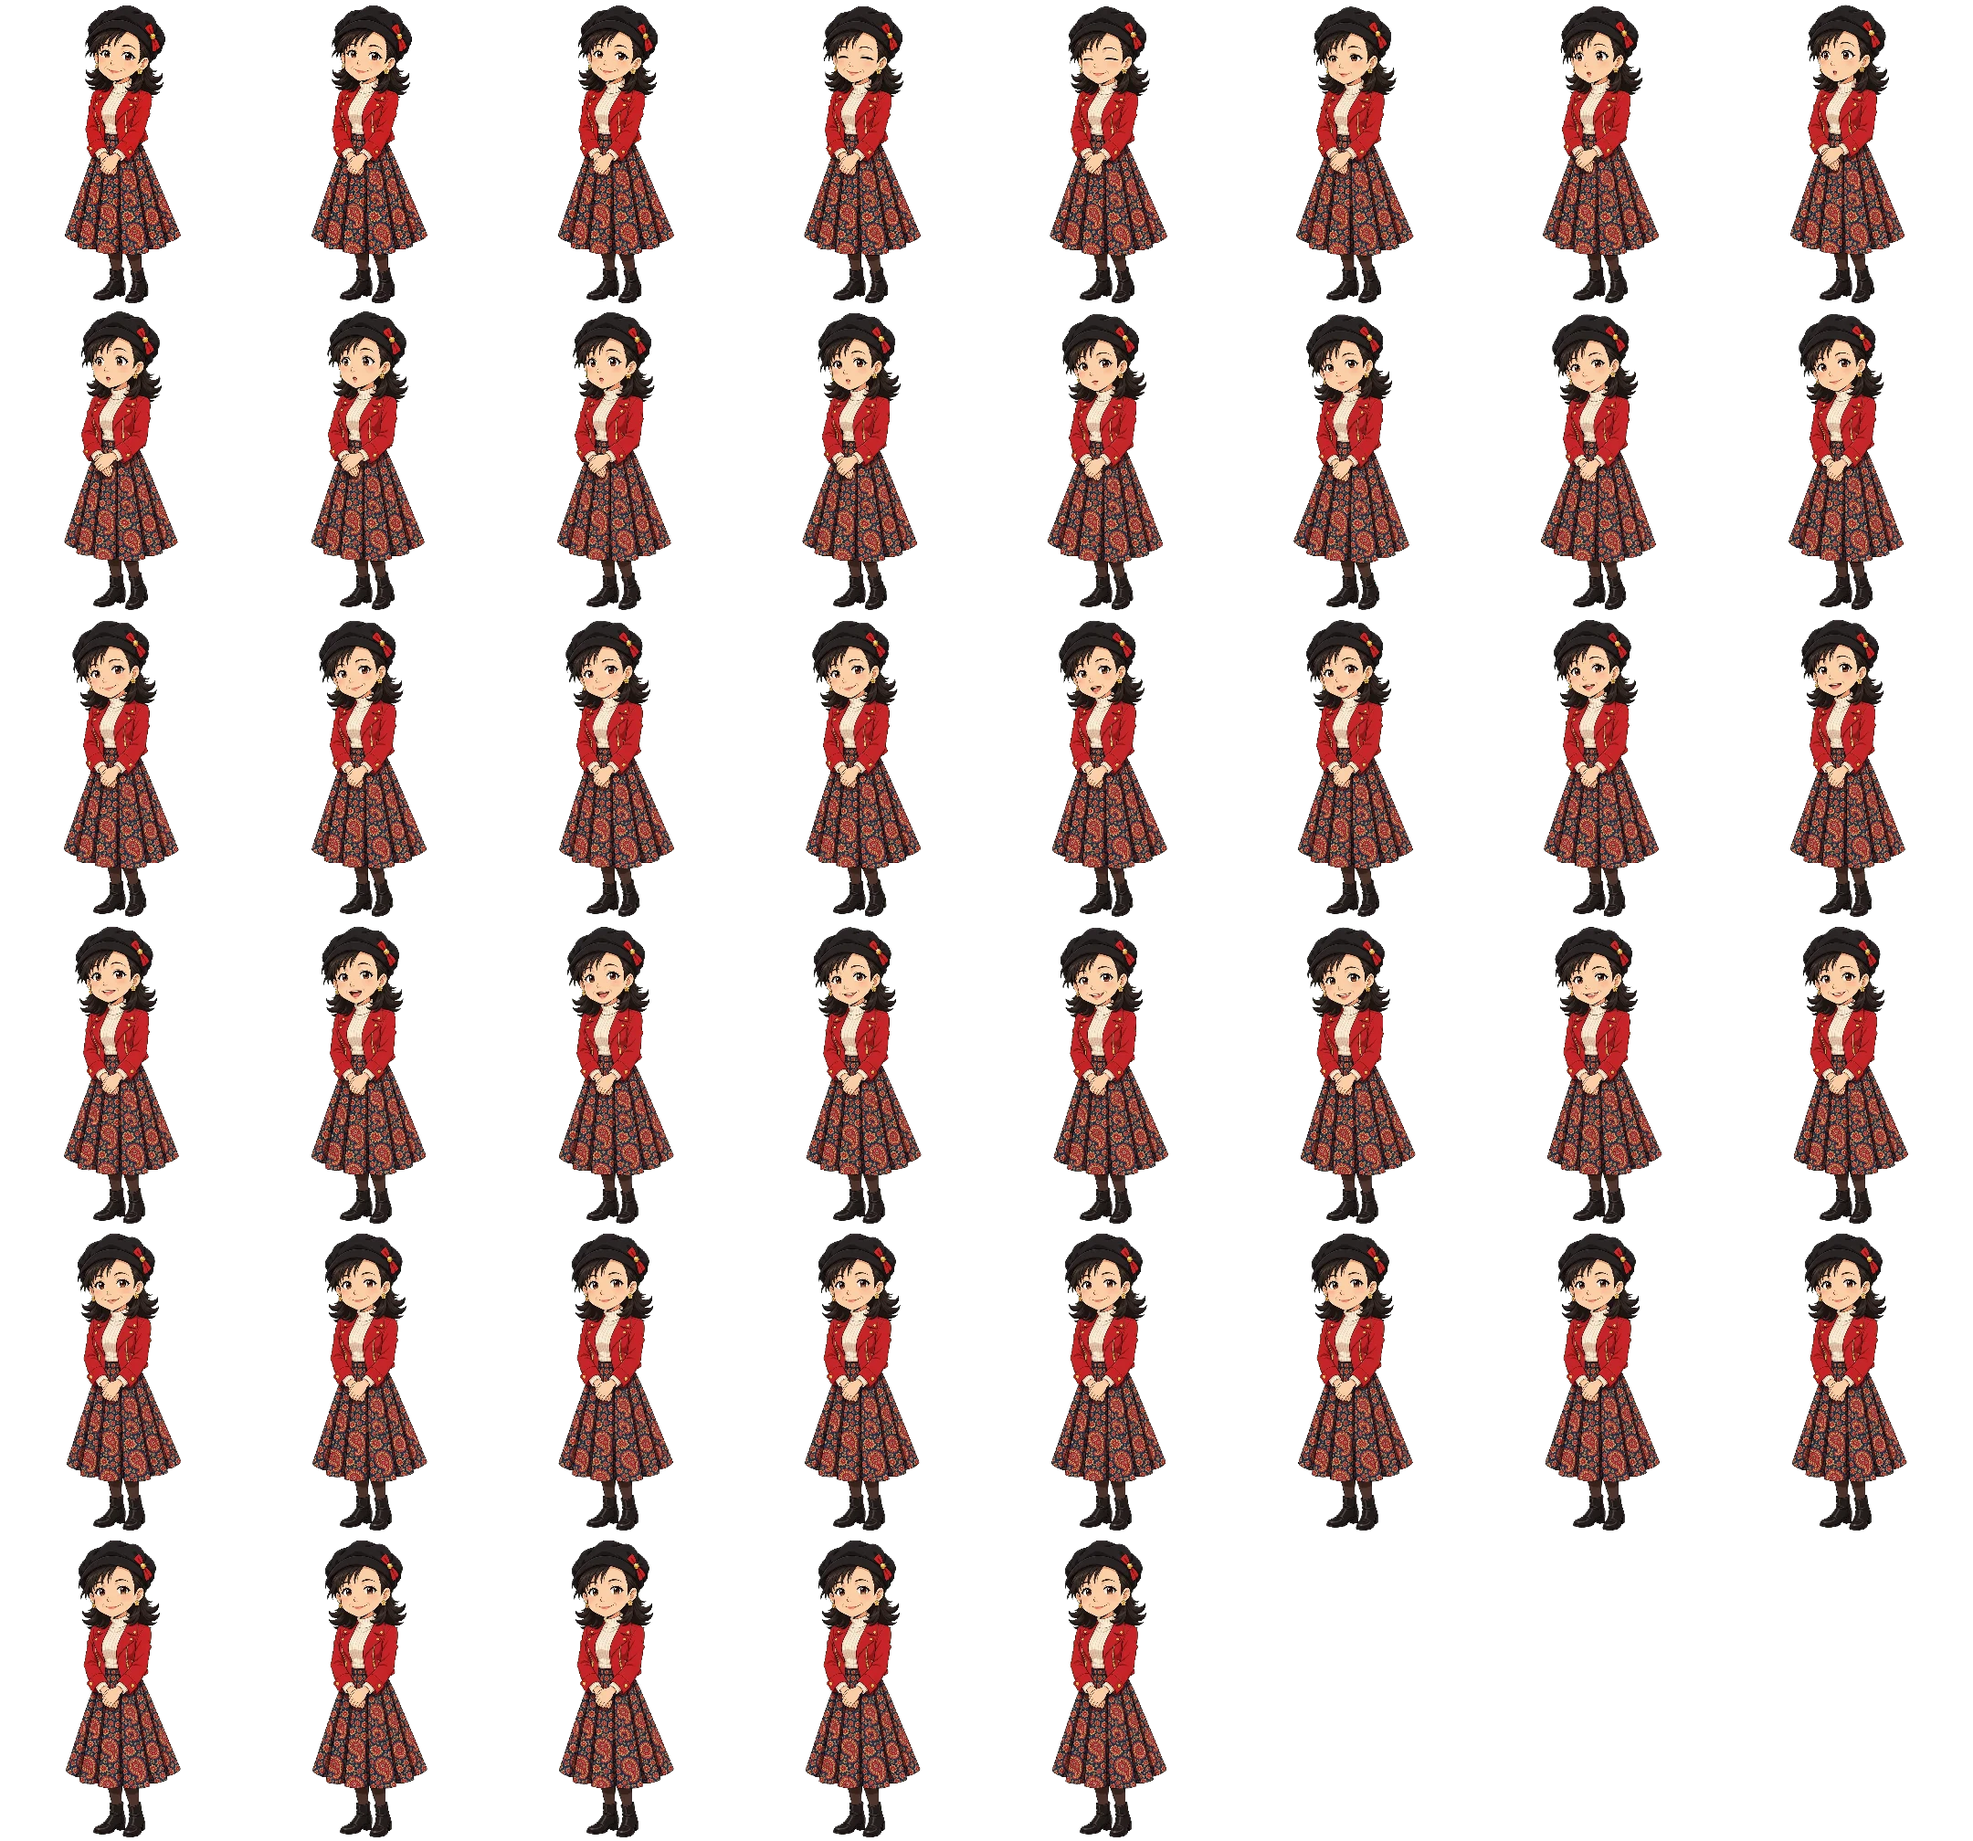
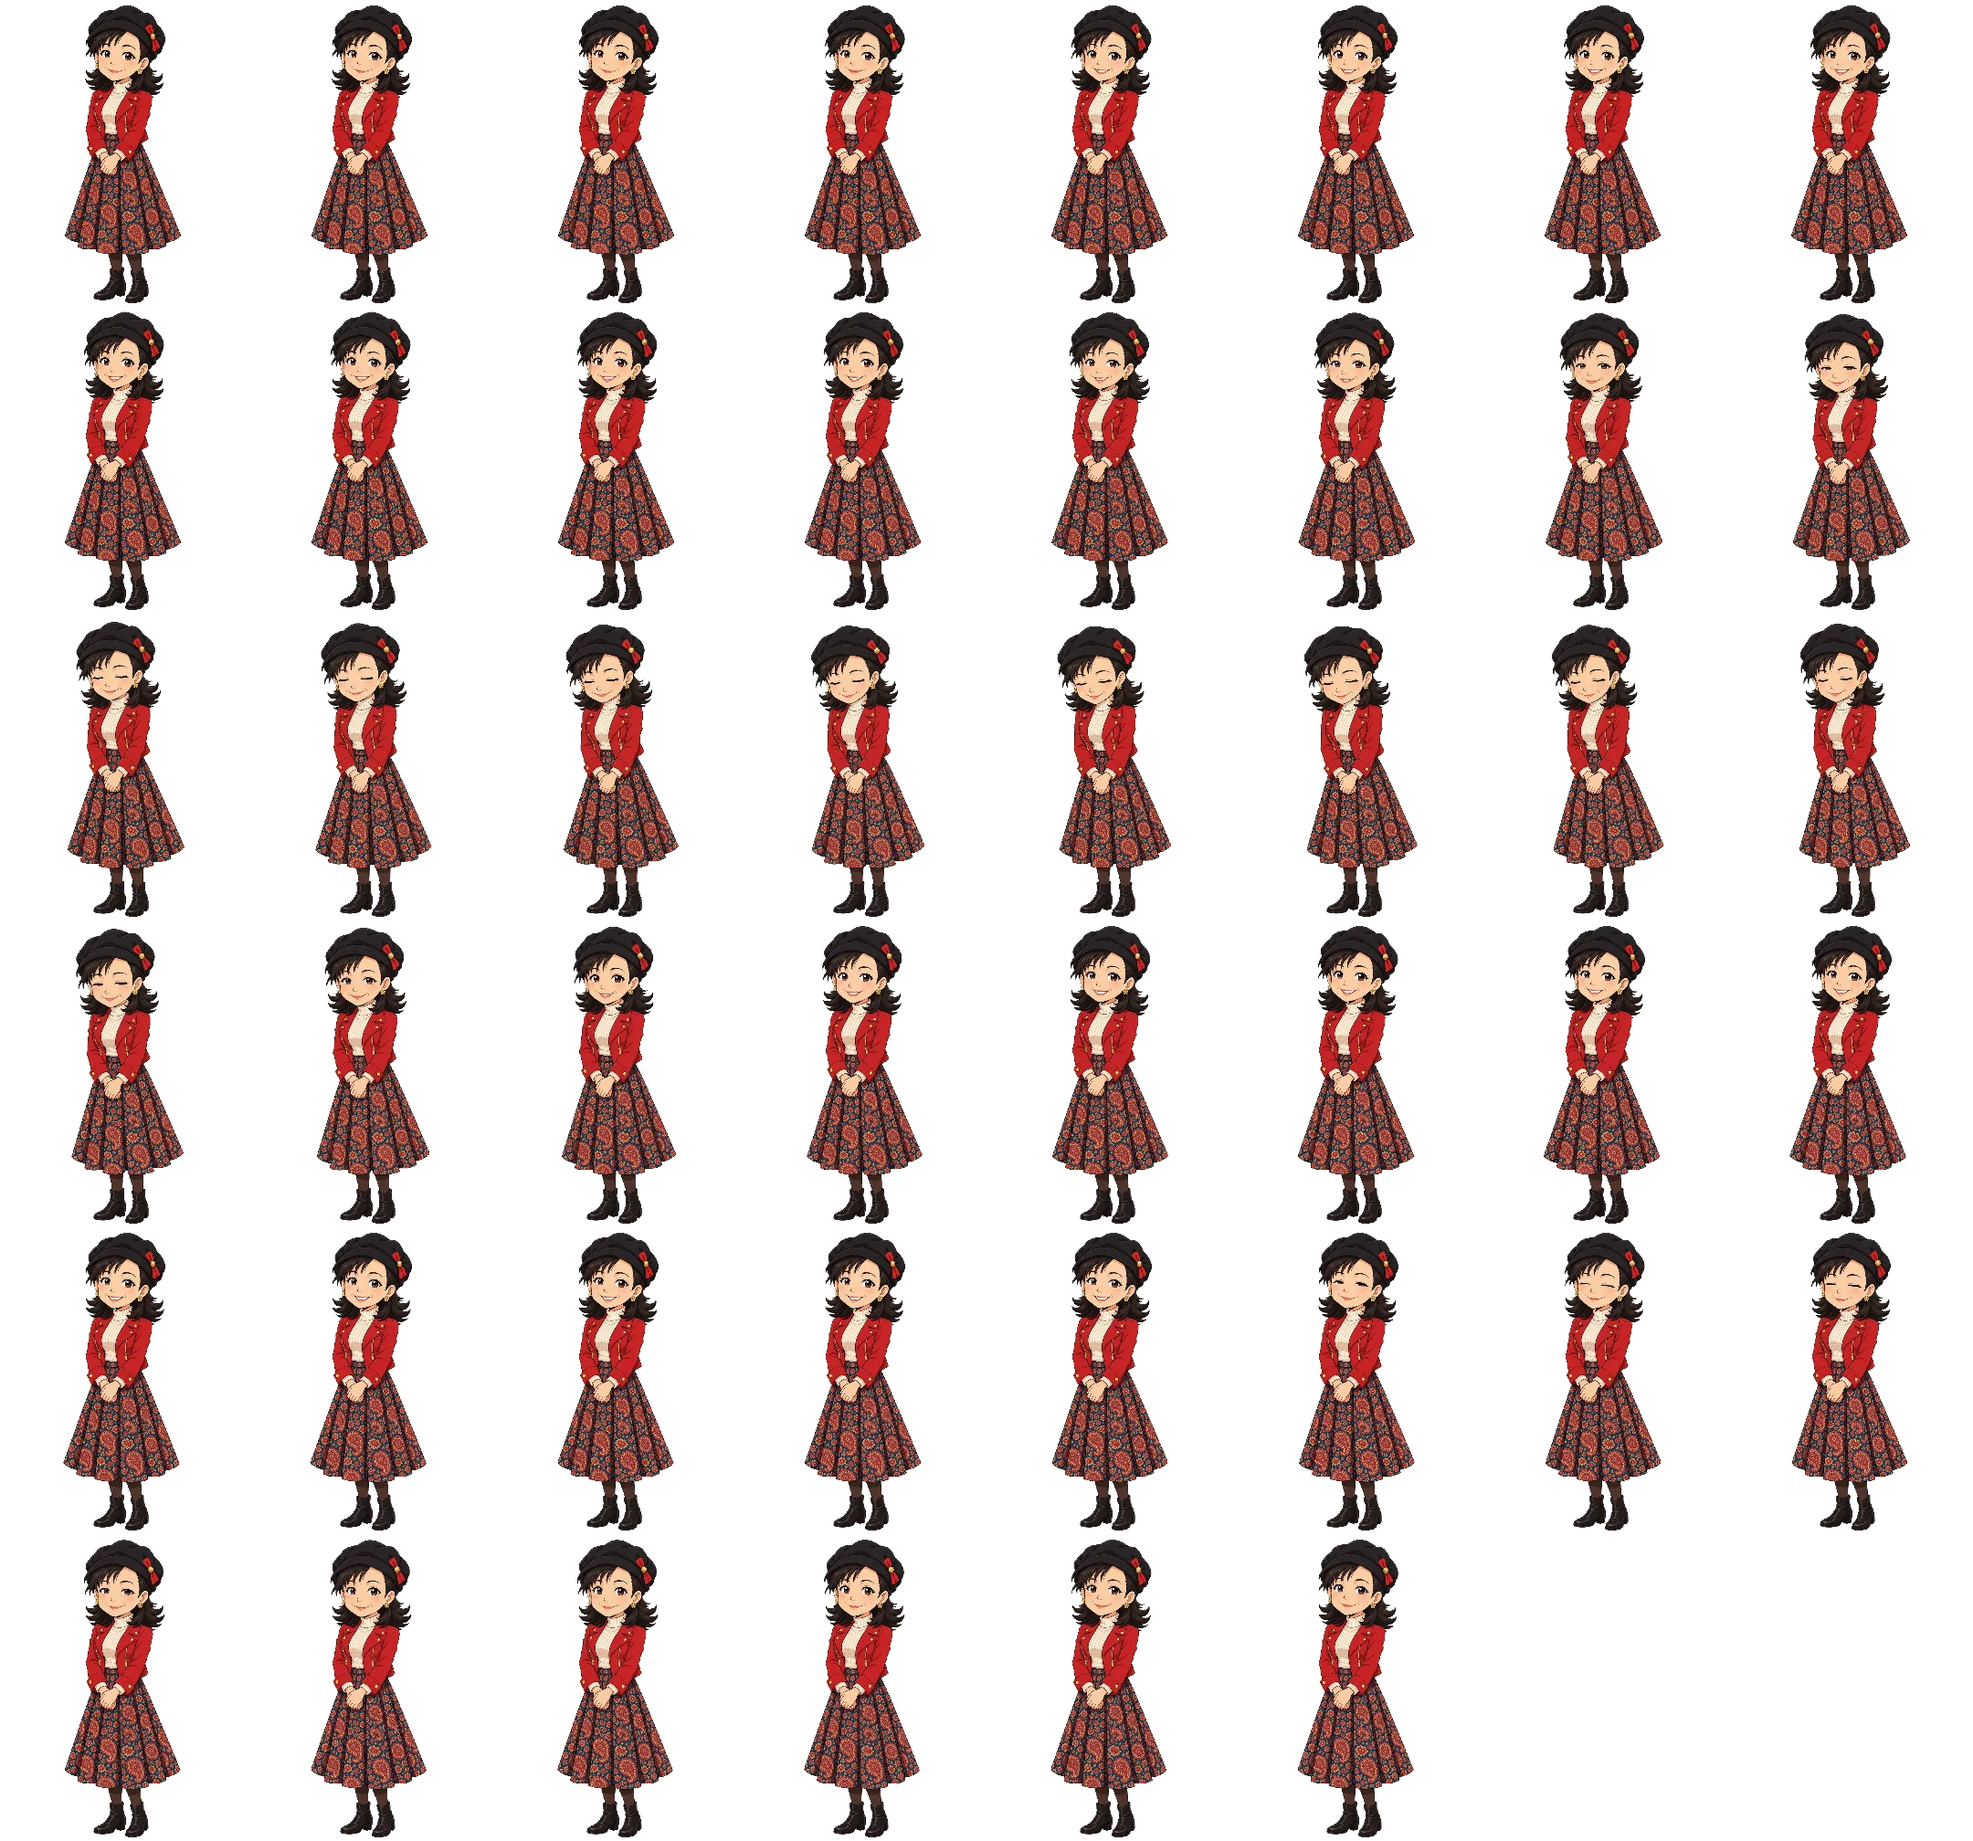
v1.60: 珍英's 碰, 槓, 點一下 and 整理軟帽 remade from one-action clips that end on her standing pose
Claude-Session: https://claude.ai/code/session_01WZLqZseQ84zHkrkNDgDySm

diff --git a/index.html b/index.html
@@ -21,7 +21,7 @@
 <details><summary>固定配牌練習</summary><p>以下是固定牌例，包含已進行到中途的牌桌；正式遊玩請選「開始新場」。</p><div class="prototype-scenes"><button type="button" data-scene="normal">中途牌桌練習</button><button type="button" data-scene="chi">多組吃牌練習</button><button type="button" data-scene="ready">聽牌選牌練習</button><a href="./layout-check.html" data-overlay>桌面草圖對照</a></div></details>
 <button id="resume-match" class="primary" type="button" hidden>返回暫停的整場</button><button id="back-title" type="button">回到標題畫面</button><button id="fullscreen-toggle" type="button" hidden>全螢幕遊玩</button><details><summary>開始新場</summary><div class="new-game"><label>指定編號（選填） <input id="seed" type="number" min="0" max="4294967295" placeholder="留白隨機開局"></label><label>場次長度 <select id="rounds"><option value="4">四圈完整場</option><option value="1">一圈短場</option></select></label><button id="new" class="primary">開始新場</button></div><p>目前場次編號：<span id="current-seed"></span>。留白會重新隨機發牌；相同編號與相同角色順序可重播同一場。每場重新抽風位、擲骰定首莊，畫面以自家為下方。完成的場次會保留最近 20 場角色與分數；未完成的場次請先下載紀錄再重開。</p></details>
 <details><summary>練習牌例與規則</summary><p>練習牌例獨立進行，不計入整場；進行中的整場會暫停保留，可從選單「返回暫停的整場」。</p><div class="training"><button data-demo="ready">聽牌宣告</button><button data-demo="win">自摸／過水</button><button data-demo="kan">宣告後暗槓</button></div><p>一人＋三位電腦，依手牌進度、可改善牌張與公開風險選擇操作。底 100／台 50；對位花、連莊無上限。普通宣告加 1 台，可以過水；天聽、地聽有胡必胡。日本玩法留待後續版本。</p><p>人胡須放槍者首次出牌，且全桌尚未吃碰。抓位為本作開場流程，不影響每手按開門位置決定的門風。正式多人連線與角色故事尚未接入。</p></details>
-<details><summary>本局行動紀錄 <span id="log-count"></span></summary><ol id="log"></ol></details><p id="feedback" role="status"></p><footer>線上可玩預覽 v1.59 · 角色演出測試台</footer></dialog>
+<details><summary>本局行動紀錄 <span id="log-count"></span></summary><ol id="log"></ol></details><p id="feedback" role="status"></p><footer>線上可玩預覽 v1.60 · 角色演出測試台</footer></dialog>
 <dialog id="chow-dialog"><div class="dialog-head"><h2>選擇吃牌組合</h2><button id="chow-close">取消</button></div><p id="chow-source"></p><div id="chow-options"></div></dialog><dialog id="meld-dialog"><div class="dialog-head"><h2>已吃碰槓牌</h2><button id="meld-close">返回牌桌</button></div><div id="meld-summary"></div></dialog><dialog id="history-dialog"><div class="dialog-head"><h2>場次紀錄</h2><button id="history-close">返回牌桌</button></div><section id="match-summary"></section></dialog>
 <dialog id="river-dialog"><div class="dialog-head"><h2>四家棄牌</h2><button id="river-close">返回牌桌</button></div><p>淡色牌已被吃碰槓；排列順序由左到右。</p><div id="river-detail"></div></dialog><dialog id="sticker-dialog"><div class="dialog-head"><h2 id="sticker-title">角色演出</h2><button id="sticker-close">返回牌桌</button></div><div class="actor-menu"><div id="actor-tabs" role="tablist" aria-label="角色"></div><div class="actor-body"><div id="actor-own"><button id="send-sticker" aria-label="秀出自己的角色"><img id="sticker-image" alt=""><span>角色亮相</span></button></div><div id="actor-shows"></div></div></div></dialog><link rel="preload" as="image" href="./assets/title-v1/title-bg.webp" fetchpriority="high"><link rel="preload" as="image" href="./assets/title-v1/logo-ja.webp" fetchpriority="high"><script type="module">/* v1.05 · title art first: on a slow phone network the table's many images would otherwise crowd out the title cover (it stayed blank). Start the game once the cover and logo are in, or after 4 s. */const im=u=>new Promise(r=>{const i=new Image();i.onload=i.onerror=()=>r();i.src=u;});await Promise.race([Promise.all(['./assets/title-v1/title-bg.webp','./assets/title-v1/logo-ja.webp'].map(im)),new Promise(r=>setTimeout(r,4000))]);await import('./app.mjs');</script></body></html>
 
